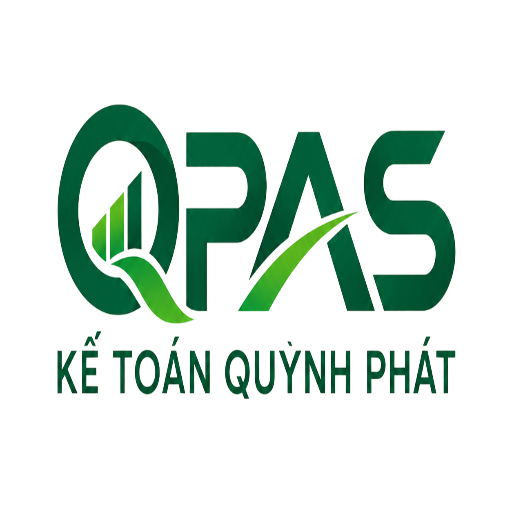
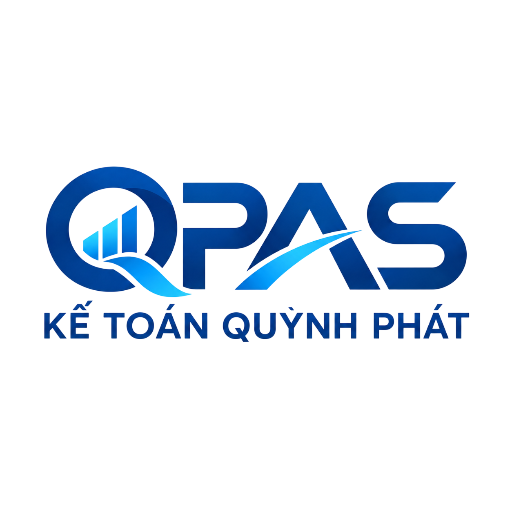
change to Water tone

Changed region(s): [[0.0625, 0.1875, 0.9375, 0.7812]]

diff --git a/public/structure.css b/public/structure.css
@@ -1,17 +1,17 @@
 :root {
-  /* Colors - based on mockup, adapting to Green/Teal */
+  /* Colors - Ocean Blue (Mệnh Thủy), premium feel */
   --color-canvas: #ffffff;
-  --color-mist: #f4f7f6; /* Very light gray/green */
+  --color-mist: #f0f4f8; /* Cool light blue/gray */
   --color-gray: #f8fafc;
   --color-border: #e2e8f0;
-  --color-text-main: #334155;
+  --color-text-main: #1e293b; /* Slightly darker slate for better contrast */
   --color-text-muted: #64748b;
-  --color-primary: #10b981; /* Mockup uses blue */
-  --color-primary-dark: #047857;
-  --color-primary-light: #d1fae5;
+  --color-primary: #2563eb; /* Blue 600 - vibrant, professional */
+  --color-primary-dark: #1e3a8a; /* Blue 900 - dark navy */
+  --color-primary-light: #dbeafe; /* Blue 100 - soft background */
   
-  --color-green: #059669; /* For the green elements in mockup */
-  --color-green-light: #d1fae5;
+  --color-green: #1d4ed8; /* Blue 700 to replace green elements */
+  --color-green-light: #eff6ff; /* Blue 50 */
   
   --color-footer-bg: #1e293b;
   
@@ -225,7 +225,7 @@ h1, h2, h3, h4, h5, p { margin: 0; }
 .hero-bg-image {
   position: absolute;
   top: 0; left: 0; right: 0; bottom: 0;
-  background: url('/assets/hero-bg.webp') no-repeat right center;
+  background: url('/assets/hero-bg.webp?v=2') no-repeat right center;
   background-size: cover;
   z-index: 0;
 }
@@ -261,7 +261,7 @@ h1, h2, h3, h4, h5, p { margin: 0; }
   letter-spacing: -0.03em;
 }
 .text-gradient {
-  background: linear-gradient(135deg, var(--color-primary-dark) 0%, var(--color-primary) 100%);
+  background: linear-gradient(135deg, var(--color-primary-dark) 0%, var(--color-primary) 50%, #38bdf8 100%);
   -webkit-background-clip: text;
   -webkit-text-fill-color: transparent;
   background-clip: text;
@@ -281,15 +281,17 @@ h1, h2, h3, h4, h5, p { margin: 0; }
   margin-top: 1rem;
 }
 .btn-glow {
-  box-shadow: 0 10px 25px -5px rgba(16, 185, 129, 0.4);
+  box-shadow: 0 10px 25px -5px rgba(37, 99, 235, 0.4);
   display: inline-flex;
   align-items: center;
   gap: 0.5rem;
   padding: 0.875rem 1.75rem;
   font-size: 1.125rem;
+  transition: all 0.3s ease;
 }
 .btn-glow:hover {
-  box-shadow: 0 15px 35px -5px rgba(16, 185, 129, 0.5);
+  box-shadow: 0 15px 35px -5px rgba(37, 99, 235, 0.6);
+  transform: translateY(-2px);
 }
 .btn-outline-glass {
   background: rgba(255,255,255,0.7);
@@ -311,8 +313,36 @@ h1, h2, h3, h4, h5, p { margin: 0; }
 /* Home Sections General */
 .home-section {
   padding: 5rem 0;
+  position: relative;
+  overflow: hidden;
 }
-.bg-mist { background-color: var(--color-mist); }
+.home-section::before {
+  content: "";
+  position: absolute;
+  top: 0; left: 0; right: 0; bottom: 0;
+  background-image: radial-gradient(var(--color-border) 1px, transparent 1px);
+  background-size: 32px 32px;
+  opacity: 0.5;
+  pointer-events: none;
+  z-index: 0;
+}
+.home-section > .container {
+  position: relative;
+  z-index: 10;
+}
+.bg-mist { 
+  background-color: var(--color-mist); 
+}
+.bg-mist::after {
+  content: "";
+  position: absolute;
+  top: 0; left: 0; right: 0; bottom: 0;
+  background-image: 
+    radial-gradient(circle at 15% 25%, rgba(37, 99, 235, 0.05) 0%, transparent 45%),
+    radial-gradient(circle at 85% 75%, rgba(14, 165, 233, 0.05) 0%, transparent 45%);
+  pointer-events: none;
+  z-index: 0;
+}
 .bg-gray { background-color: var(--color-gray); }
 
 .section-eyebrow {
@@ -367,8 +397,8 @@ h1, h2, h3, h4, h5, p { margin: 0; }
 }
 .service-card-item:hover {
   transform: translateY(-8px);
-  box-shadow: 0 20px 25px -5px rgba(0, 0, 0, 0.08), 0 10px 10px -5px rgba(0, 0, 0, 0.03);
-  border-color: rgba(16, 185, 129, 0.3);
+  box-shadow: 0 20px 25px -5px rgba(37, 99, 235, 0.15), 0 10px 10px -5px rgba(37, 99, 235, 0.05);
+  border-color: rgba(37, 99, 235, 0.4);
 }
 .service-card-icon-wrapper {
   width: 4rem;
@@ -444,7 +474,7 @@ h1, h2, h3, h4, h5, p { margin: 0; }
   box-shadow: 0 10px 25px rgba(0,0,0,0.08);
 }
 .process-card-left {
-  background: linear-gradient(135deg, var(--color-primary) 0%, var(--color-primary-dark) 100%);
+  background: linear-gradient(135deg, #3b82f6 0%, var(--color-primary-dark) 100%);
   width: 100%;
   height: 100px;
   position: relative;
@@ -717,10 +747,10 @@ h1, h2, h3, h4, h5, p { margin: 0; }
   color: rgba(255,255,255,0.9);
   margin-bottom: 0.5rem;
 }
-.cta-green {
+.cta-primary {
   background-color: var(--color-green);
 }
-.cta-green .btn-primary {
+.cta-primary .btn-primary {
   background-color: var(--color-primary-dark);
 }
 .cta-blue {
@@ -960,7 +990,6 @@ h1, h2, h3, h4, h5, p { margin: 0; }
   width: 100%;
   height: 100%;
   object-fit: cover;
-  filter: grayscale(1);
   transition: transform 500ms cubic-bezier(0.22, 0.61, 0.36, 1);
 }
 .knowledge-image-link:hover img { transform: scale(1.035); }
@@ -1104,7 +1133,7 @@ h1, h2, h3, h4, h5, p { margin: 0; }
   position: absolute;
   z-index: 0;
   inset: 40% 0 0;
-  background: linear-gradient(180deg, transparent 0%, rgb(12 17 14 / 72%) 100%);
+  background: linear-gradient(180deg, transparent 0%, rgba(37, 99, 235, 0.4) 100%);
   content: "";
   pointer-events: none;
 }
@@ -1116,7 +1145,6 @@ h1, h2, h3, h4, h5, p { margin: 0; }
   height: 100%;
   object-fit: cover;
   object-position: 56% center;
-  filter: grayscale(1) brightness(0.8);
 }
 .contact-editorial-media figcaption {
   position: absolute;
